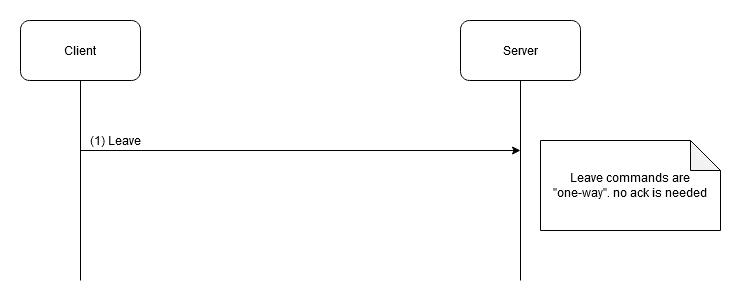
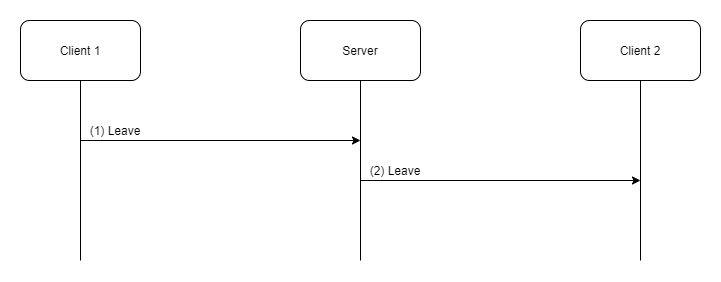
Updated protocol.md to match changes

diff --git a/deliverables/protocol.md b/deliverables/protocol.md
@@ -39,12 +39,12 @@ Every command is also serialized as a JSON and encapsulated in CommandWrapper as
 
 
 ### Types of Commands
-This are all possible values of `CommandType` and they represent all possible commands sent between server and clientDELETE.
+This are all possible values of `CommandType` and they represent all possible commands sent between server and client.
 
 | Type                | Client | Server | 
 |---------------------|---------------------|---------------------|
-| JOIN                | Request to join a match | -- |
-| LEAVE               | Request to quit a match | -- | 
+| JOIN                | Request to join a match | Notification that a player connected to the wait lobby |
+| LEAVE               | Request to quit a match | Notification that a player disconnected from the wait lobby | 
 | START               | Ask the server to start a match (setup phase) | Request made by the host to start a match
 | FILTER_GODS         | Request the host to pick the gods for the match | List of gods that should be used in the match |  
 | PICK_GOD            | Request to to pick a god from the provided list | God pick by a player
@@ -54,7 +54,7 @@ This are all possible values of `CommandType` and they represent all possible co
 | UPDATE              | Update on the new map status | --
 | END_GAME            | Win/Lose notification | --
 
-Note that all the commands "order" to do something but this "forced actions" can also be game updates that the clientDELETE should process, for example a map change.
+Note that all the commands "order" to do something but this "forced actions" can also be game updates that the client should process, for example a map change.
 
 ## Errors
 
@@ -90,8 +90,11 @@ All the next schemas don't show broadcast interactions, we display only meaningf
 | Seq | CommandType  | Sender   | Receiver | Payload |
 |-----|--------------|----------|----------|---------|
 | 1   | LeaveCommand | 1        | ServerID | --      |
+| 2   | LeaveCommand | ServerID | 2        | LeftPlayerID: `1`<br> newHostPlayerID: `2`, numberRemainingPlayers: `1` |
 
 When a connection dies for every reason, the network layer generates a virtual `LeaveCommand` and passes it to the Controller.
+
+This command is also used as notification during pre-match to inform that a client disconnected from the lobby.
 
 ## Setup
 
@@ -125,7 +128,7 @@ With three players the start command is not necessary, because the match has rea
 | 2   | ActionCommand | 1        | ServerID | selectedAction: `{actionID: 0, worker: 0, postions: {0,0}}`                                  |
 | 2   | UpdateCommand | ServerID | *        | map: `{map: [[1,1,1,1,1], ...], workers: [{ownerID: 1, workerID: 1, postions: {0,0}}, ...]}` |
 
-The above schema applies to every to every turn for every player, no distinction is made
+The above schema applies to every to every turn for every player, no distinction is made.
 
 ## End Game
 

diff --git a/README.md b/README.md
@@ -20,8 +20,8 @@ Software engineering project AA2019-2020 Politecnico di Milano
 | Basic rules |[![GREEN](https://placehold.it/15/44bb44/44bb44)](#) |
 | Complete rules | [![GREEN](https://placehold.it/15/44bb44/44bb44)](#) |
 | Socket | [![GREEN](https://placehold.it/15/44bb44/44bb44)](#) |
-| GUI | [![YELLOW](https://placehold.it/15/ffdd00/ffdd00)](#) |
-| CLI | [![YELLOW](https://placehold.it/15/ffdd00/ffdd00)](#) |
+| GUI | [![GREEN](https://placehold.it/15/44bb44/44bb44)](#) |
+| CLI | [![GREEN](https://placehold.it/15/44bb44/44bb44)](#) |
 | Multiple games | [![GREEN](https://placehold.it/15/44bb44/44bb44)](#) |
 | Persistence | [![RED](https://placehold.it/15/f03c15/f03c15)](#) |
 | Advanced Gods | [![RED](https://placehold.it/15/f03c15/f03c15)](#) |
